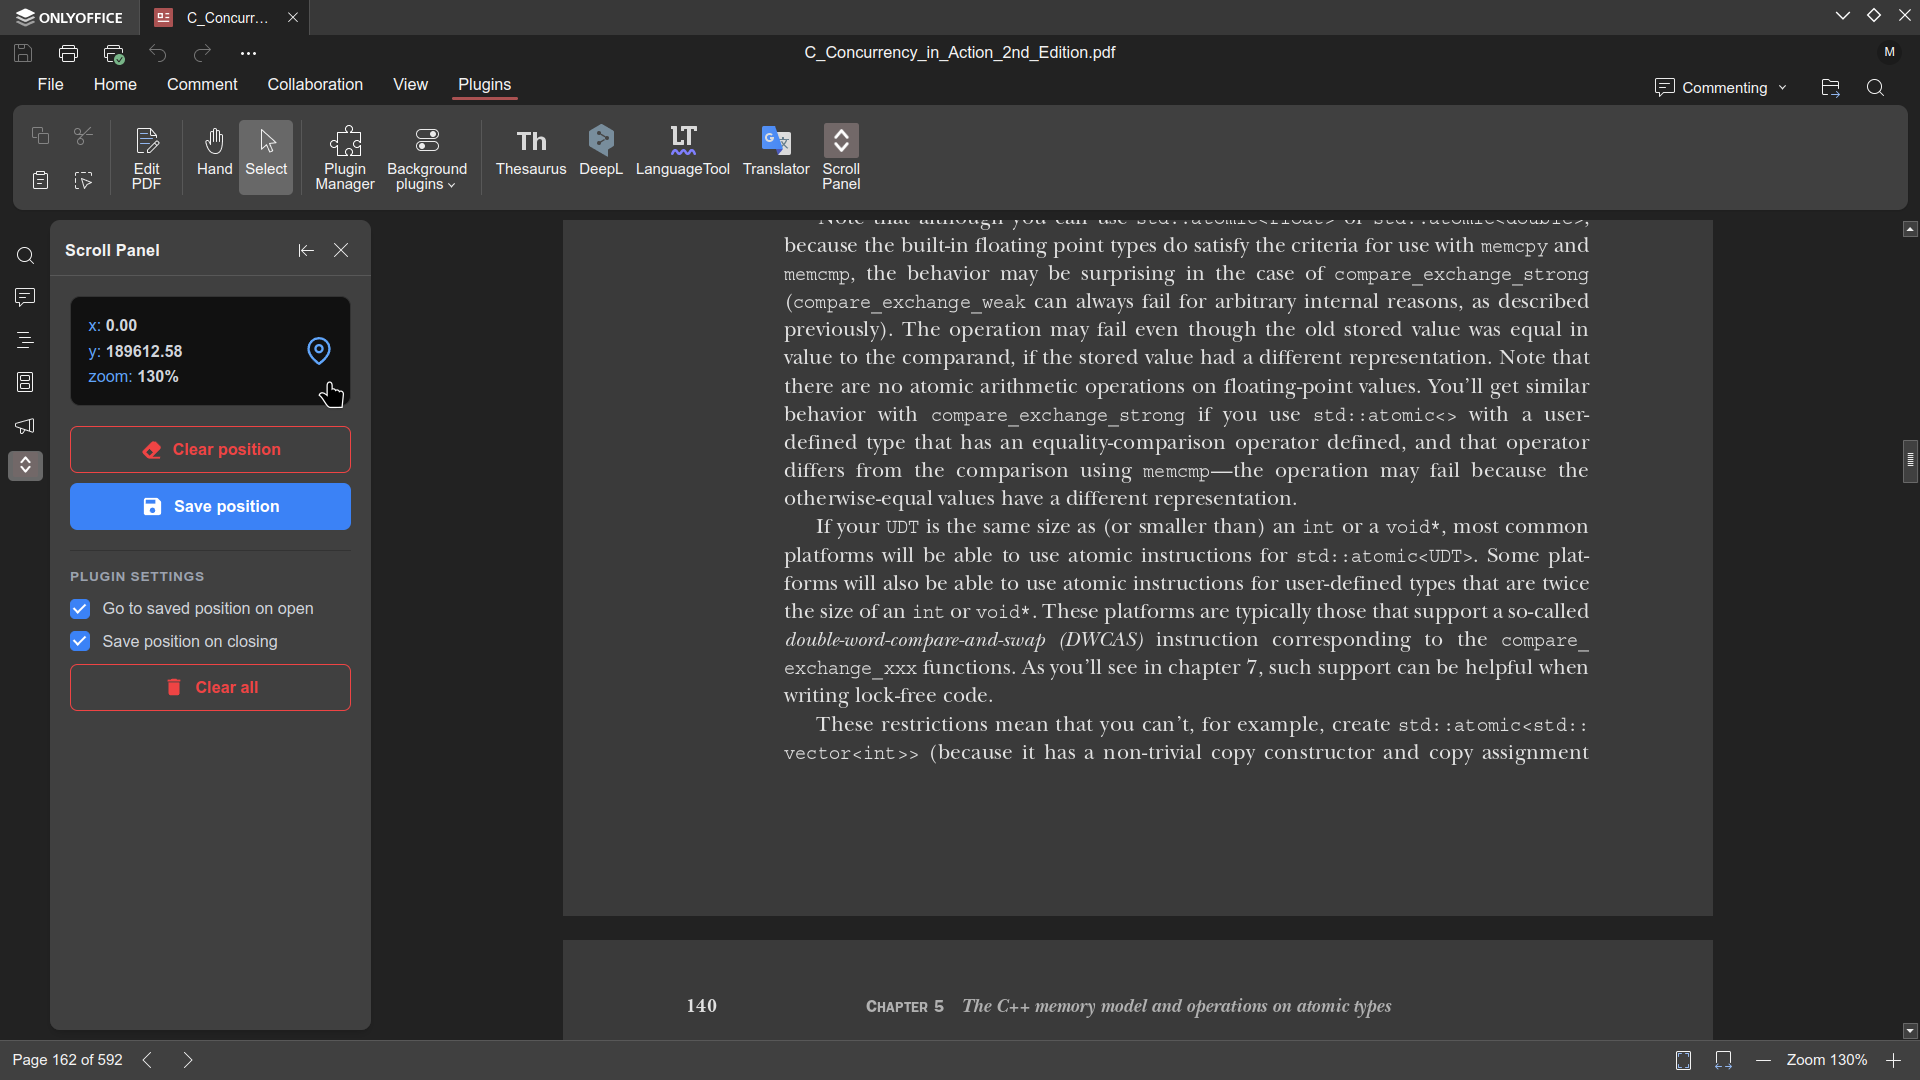
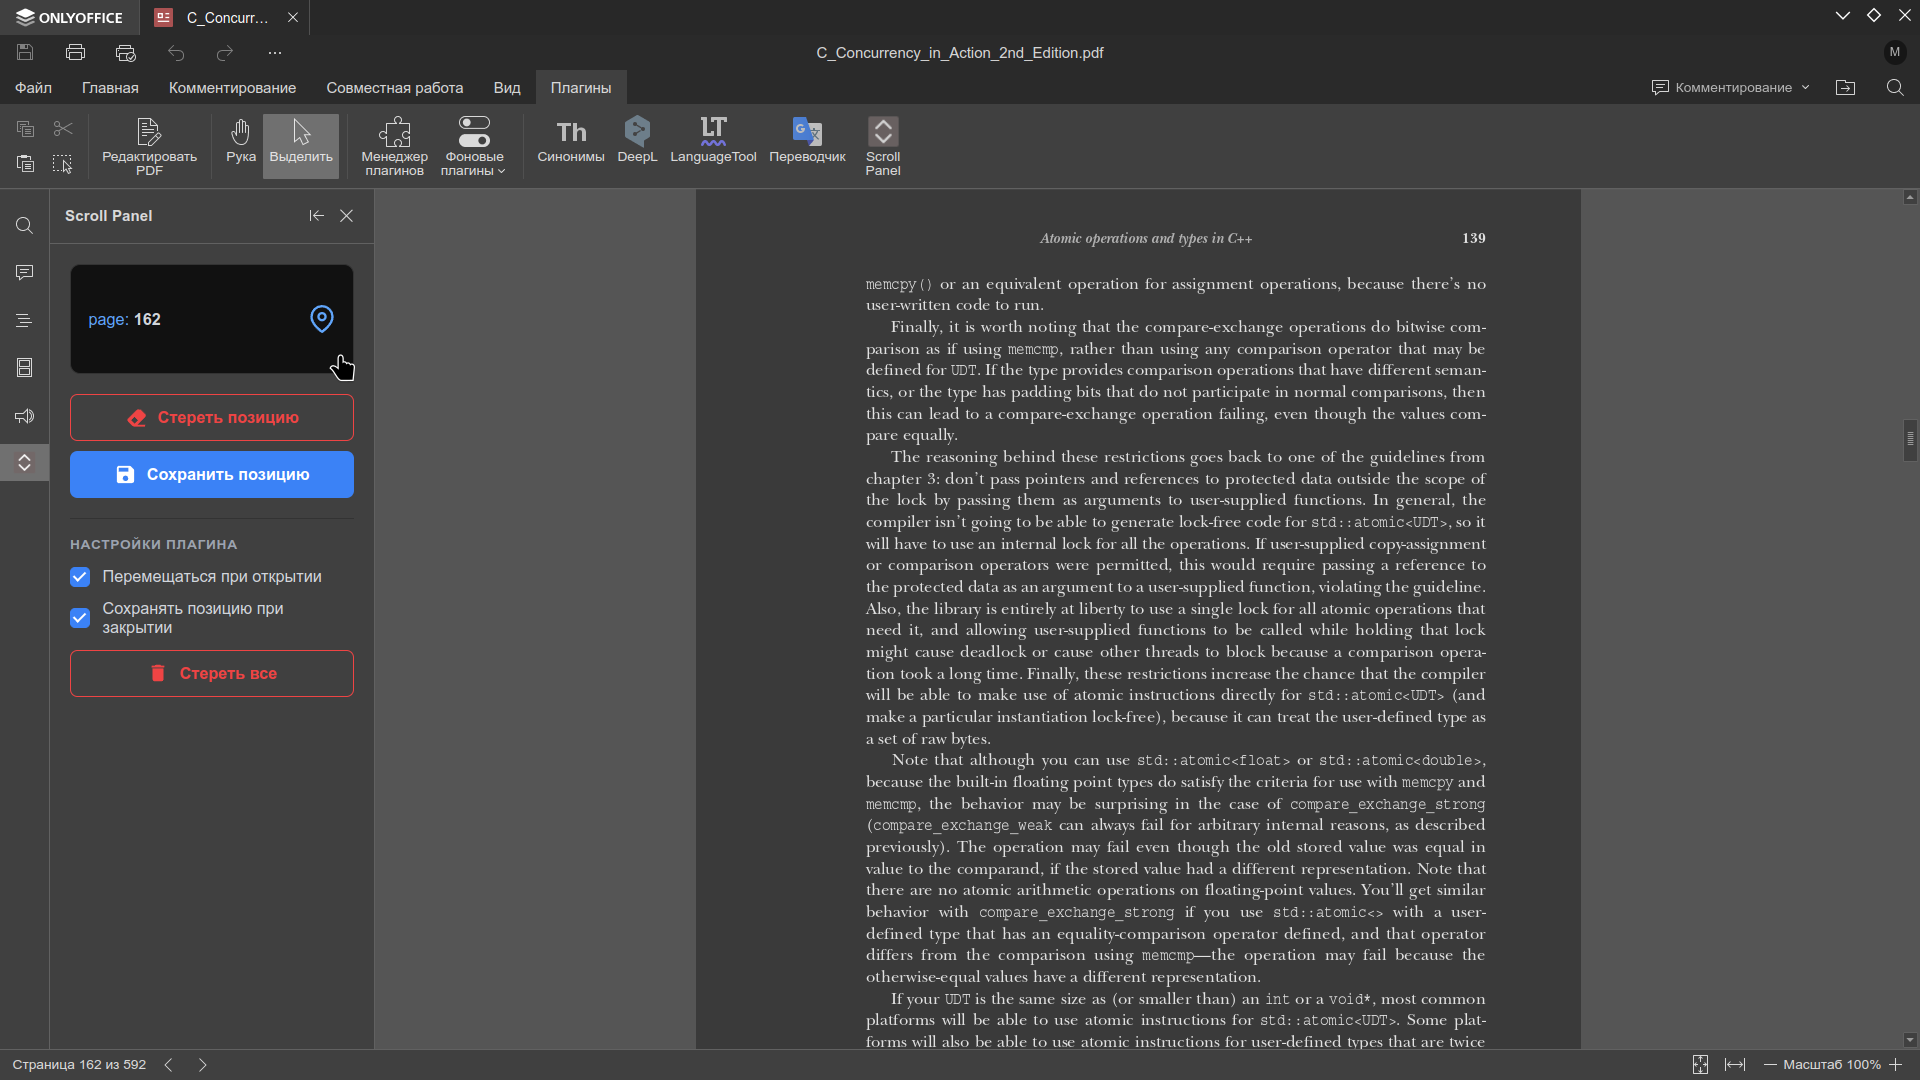
use secure and open API methods.

diff --git a/src/scripts/scroll-core/m_editor.js b/src/scripts/scroll-core/m_editor.js
@@ -9,8 +9,22 @@ export class EditorController {
         this.#win = win;
     }
 
+    // Private wrapper method
+    #execMethod(method, args = []) {
+        return new Promise((resolve, reject) => {
+            try {
+                this.#win.Asc.plugin.executeMethod(method, args, (returnValue) => {
+                    resolve(returnValue);
+                });
+            } catch (e) {
+                reject(e);
+            }
+        });
+    }
+
     /**
-     * @typedef { Object } ViewState
+     * @typedef { Object } ViewState     * 
+     * @property { number } pageIndex - Page index
      * @property { number } x - Scroll X coordinate
      * @property { number } y - Scroll Y coordinate
      * @property { number } zoom - Zoom level (in percentages, e.g. 130)
@@ -19,15 +33,23 @@ export class EditorController {
     /**
      * @returns {ViewState | null} The state object or null if there is no data.
      */
-    getView() {
+    async getView() {
         try {
-            const scrollInfo = this.#win?.parent?.Asc?.editor?.getCurScroll();
-            const zoomText = this.#win?.parent?.document?.querySelector('#label-zoom')?.textContent;
+            // const scrollInfo = this.#win?.parent?.Asc?.editor?.getCurScroll();
+            // const zoomText = this.#win?.parent?.document?.querySelector('#label-zoom')?.textContent;
 
+            // const res = {
+            //     x: scrollInfo?.x ?? null,
+            //     y: scrollInfo?.y ?? null,
+            //     zoom: zoomText ? Number(zoomText.replace(',', '.').match(/[\d.]+/)?.[0]) : null
+            // };
+
+            const pageIndex = await this.#execMethod("GetCurrentPage");
             const res = {
-                x: scrollInfo?.x ?? null,
-                y: scrollInfo?.y ?? null,
-                zoom: zoomText ? Number(zoomText.replace(',', '.').match(/[\d.]+/)?.[0]) : null
+                pageIndex: pageIndex ?? null,
+                x: 0.0,
+                y: 0.0,
+                zoom: 100
             };
 
             // If at least one of the values is null, undefined, or NaN - return null.
@@ -46,8 +68,9 @@ export class EditorController {
      */
     setView(view) {
         if (view) {
-            this.#win?.parent?.Asc?.editor.zoom(view.zoom);
-            this.#win?.parent?.Asc?.editor.scrollToXY(view.x, view.y);
+            this.#win.Asc.plugin.executeMethod("GoToPage", [view.pageIndex]);
+            // this.#win?.parent?.Asc?.editor.zoom(view.zoom);
+            // this.#win?.parent?.Asc?.editor.scrollToXY(view.x, view.y);
         }
     }
 

diff --git a/src/scripts/scroll-core/m_ui.js b/src/scripts/scroll-core/m_ui.js
@@ -75,8 +75,8 @@ export class PanelUIController {
             this.#editorCtrl.setView(savedView);
         });
 
-        this.#el_saveBtn?.addEventListener('click', () => {
-            let view = this.#editorCtrl.getView();
+        this.#el_saveBtn?.addEventListener('click', async () => {
+            let view = await this.#editorCtrl.getView();
             this.#plugStore.saveView(view);
             this.update();
         });
@@ -151,10 +151,14 @@ export class PanelUIController {
             }
         } else {
             this.#el_viewCard.classList.remove('disabled');
+        //     this.#text_viewCard.innerHTML = `
+        //     <div>page: <span class="val">${savedView.pageIndex+1}</span></div>
+        //     <div>x: <span class="val">${Number(savedView.x).toFixed(2)}</span></div>
+        //     <div>y: <span class="val">${Number(savedView.y).toFixed(2)}</span></div>
+        //     <div>zoom: <span class="val">${savedView.zoom}%</span></div>
+        // `;
             this.#text_viewCard.innerHTML = `
-            <div>x: <span class="val">${Number(savedView.x).toFixed(2)}</span></div>
-            <div>y: <span class="val">${Number(savedView.y).toFixed(2)}</span></div>
-            <div>zoom: <span class="val">${savedView.zoom}%</span></div>
+            <div>page: <span class="val">${savedView.pageIndex+1}</span></div>
         `;
 
             // Show the button

diff --git a/src/scripts/index.js b/src/scripts/index.js
@@ -82,11 +82,11 @@ function tryRestoreScroll() {
 }
 
 // Timer for saving the current position every second
-function startTempScrollSaver() {
-    setInterval(() => {
+async function startTempScrollSaver() {
+    setInterval(async () => {
         if (!plugStore.getSaveByCloseFlag()) return;
 
-        const currentView = editorCtrl.getView();
+        const currentView = await editorCtrl.getView();
 
         if (currentView === null) return;
 

diff --git a/src/scripts/scroll-core/m_storage.js b/src/scripts/scroll-core/m_storage.js
@@ -35,6 +35,7 @@ export class PluginStorage {
 
     /**
      * @typedef { Object } ViewState
+     * @property { number } pageIndex - Page index
      * @property { number } x - Scroll X coordinate
      * @property { number } y - Scroll Y coordinate
      * @property { number } zoom - Zoom level (in percentages, e.g. 130)
